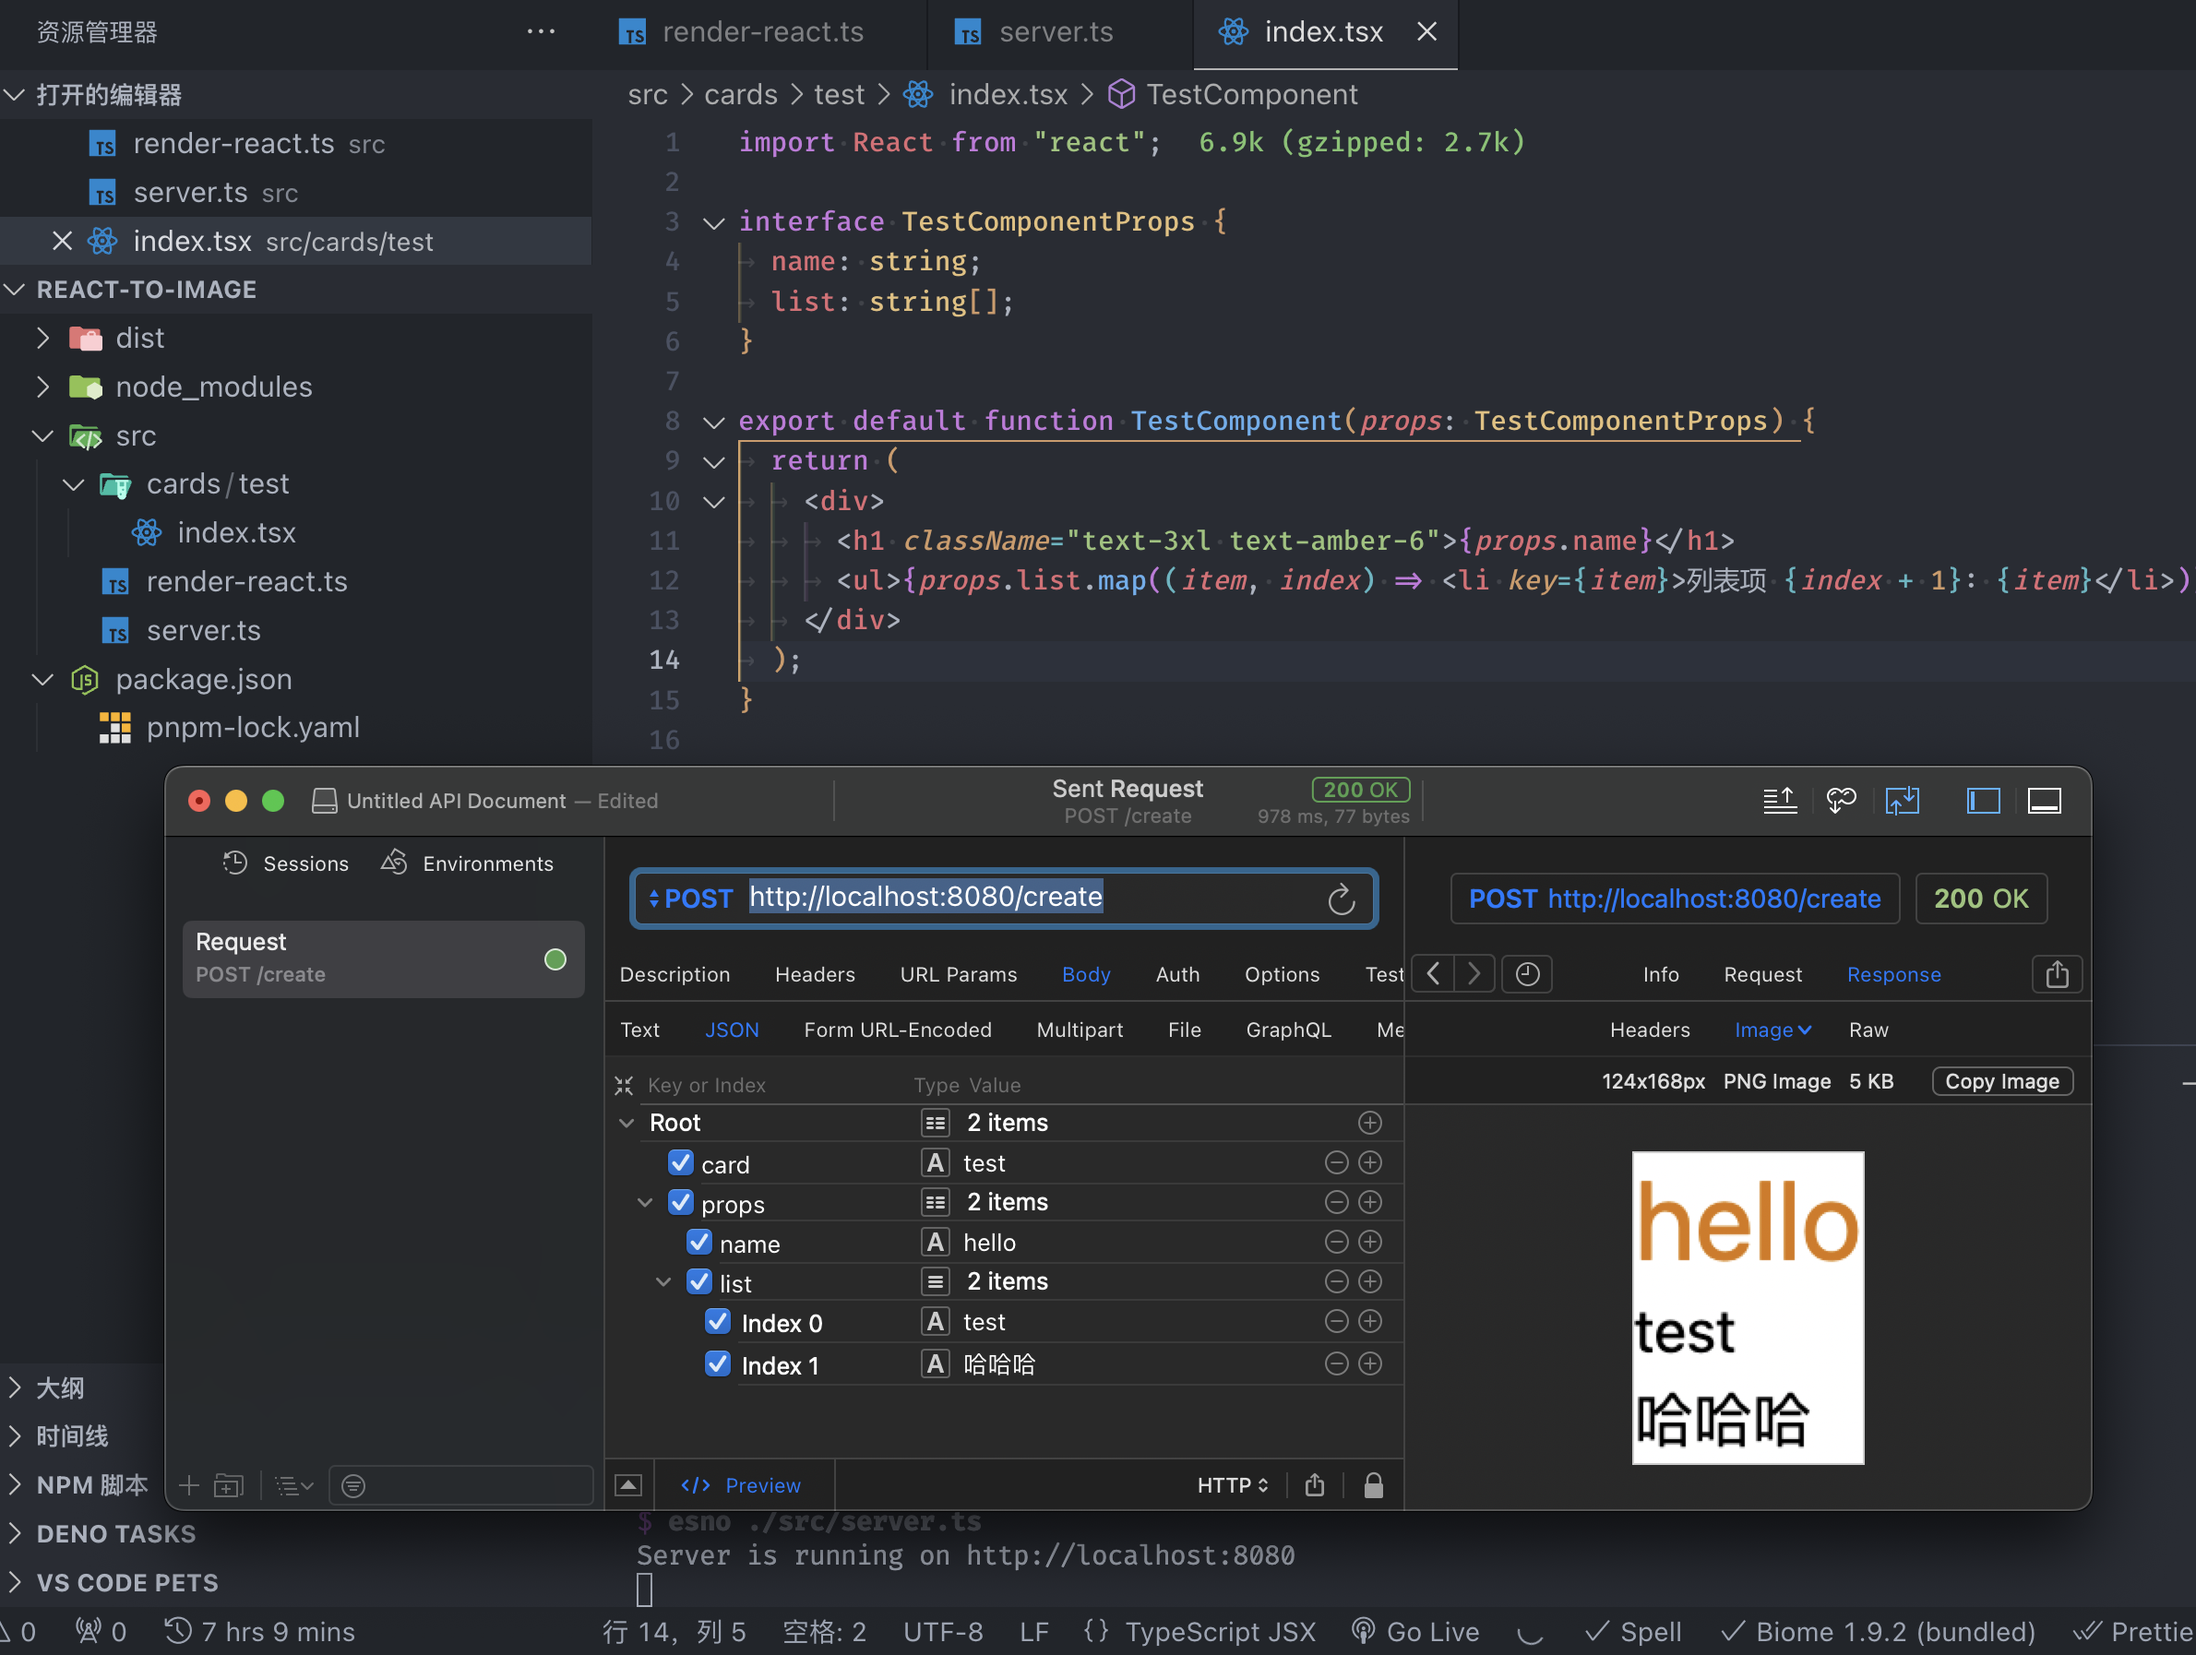
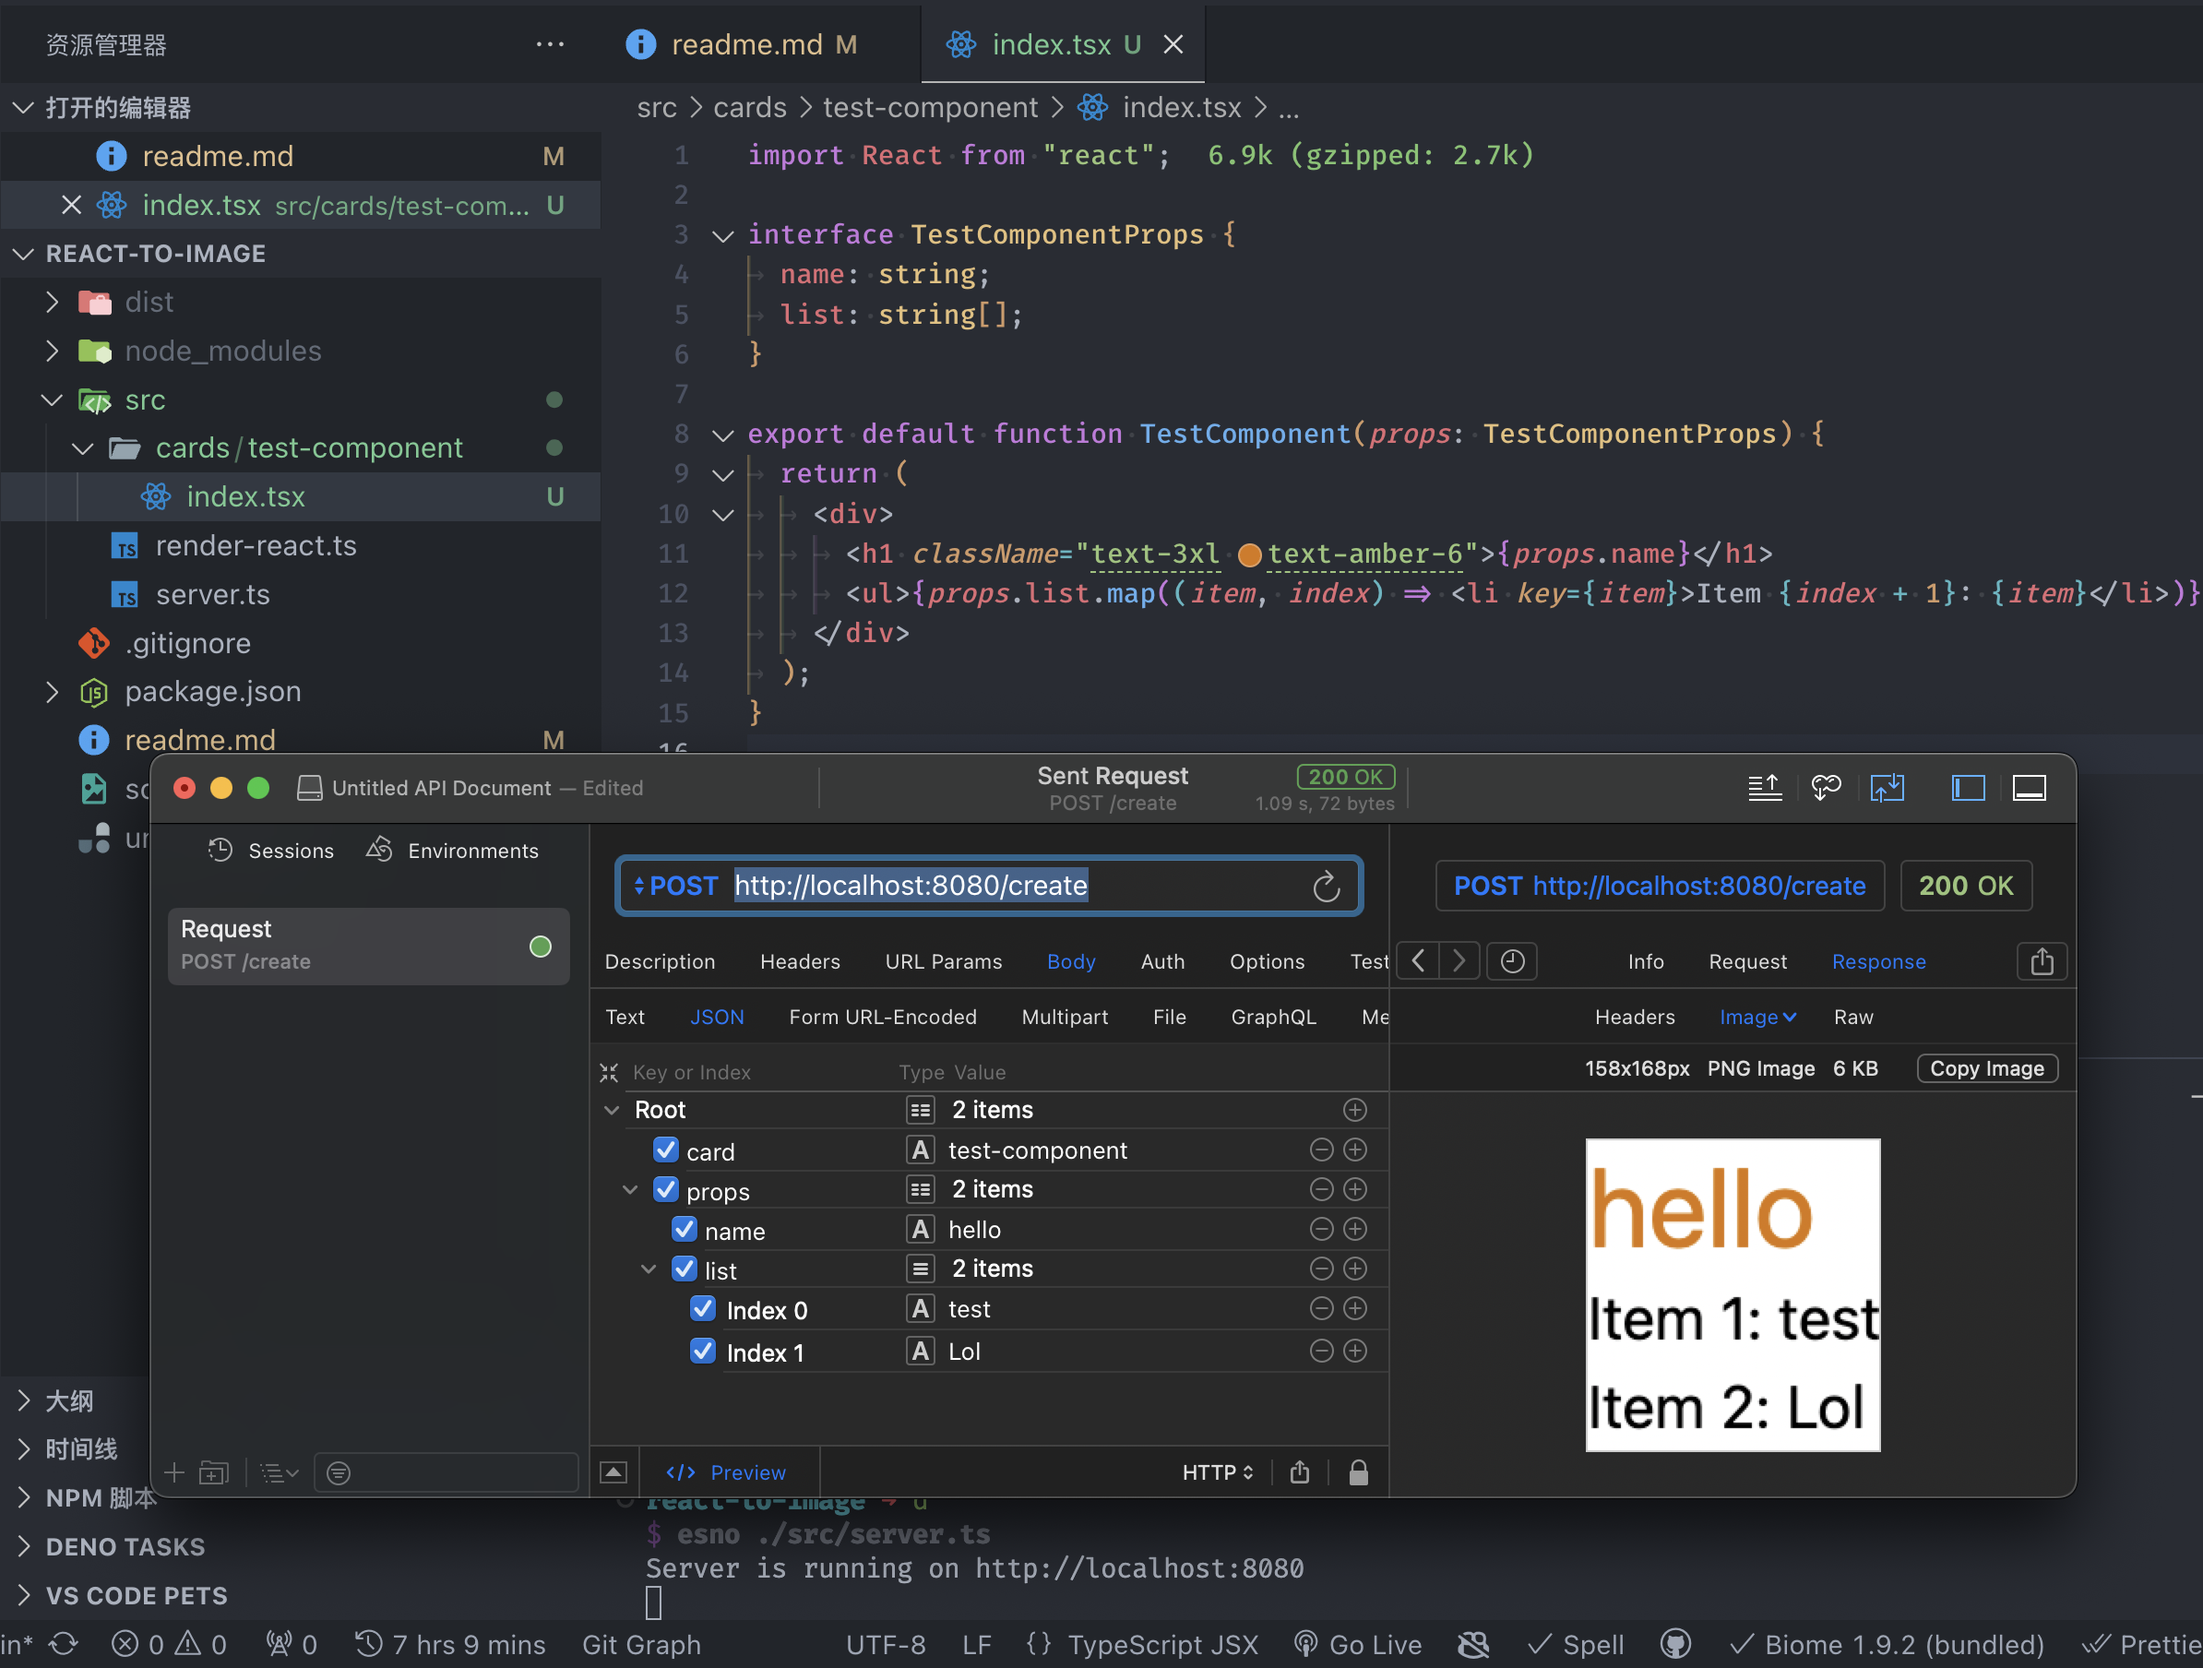
chore: update docs

diff --git a/src/cards/test-component/index.tsx b/src/cards/test-component/index.tsx
@@ -9,7 +9,7 @@ export default function TestComponent(props: TestComponentProps) {
 	return (
 		<div>
 			<h1 className="text-3xl text-amber-6">{props.name}</h1>
-			<ul>{props.list.map((item, index) => <li key={item}>列表项 {index + 1}: {item}</li>)}</ul>
+			<ul>{props.list.map((item, index) => <li key={item}>Item {index + 1}: {item}</li>)}</ul>
 		</div>
 	);
 }

diff --git a/readme.md b/readme.md
@@ -1,6 +1,6 @@
 # React to Image
 
-A Node.js server that use `puppeteer` to take a screenshot of a `React` component and return it.
+A Node.js server that use `puppeteer` to take a screenshot of a `React` component and return it, `UnoCSS` is supported out of the box.
 
 ![screenshot](./screenshot.png)
 
@@ -22,7 +22,7 @@ Create a screenshot of a React component.
 
 ```json
 {
-  "card": "test",
+  "card": "test-component",
   "props": {
     "name": "hello",
     "list": ["test", "lol"]
